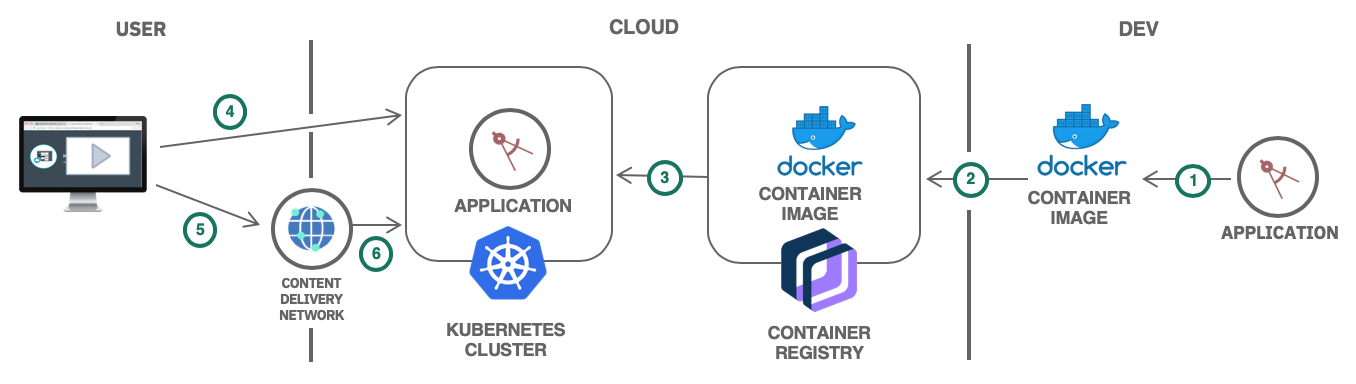
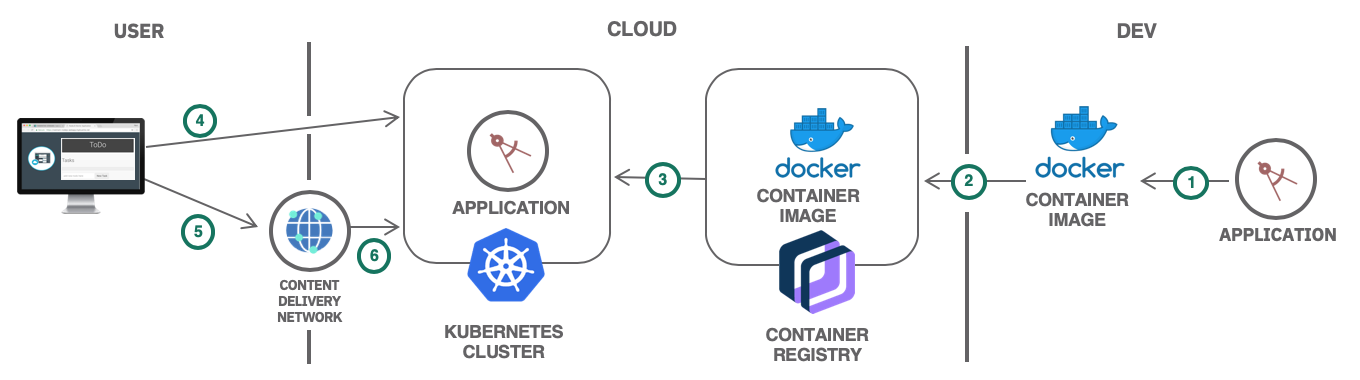
Further updates per Fred, and fix the defects about test object uploading

diff --git a/dynamic-content-cdn.md b/dynamic-content-cdn.md
@@ -16,12 +16,12 @@ lasttested: "2019-09-30"
 # Accelerate a dynamic website using Dynamic Content Acceleration with IBM CDN
 {: #dynamic-cdn}
 
-In a previous tutorial [Accelerate delivery of static files using a CDN](/docs/tutorials?topic=solution-tutorials-static-files-cdn) we have known how to host and serve static assets (images, videos, documents) of a website in a {{site.data.keyword.cos_full_notm}}, and how to use a [{{site.data.keyword.cdn_full}} (CDN)](https://{DomainName}/catalog/infrastructure/cdn-powered-by-akamai) for fast and secure delivery to users around the world.
+In a previous tutorial [Accelerate delivery of static files using a CDN](/docs/tutorials?topic=solution-tutorials-static-files-cdn) we have known how to host and serve static assets (images, videos, and documents) of a website in a {{site.data.keyword.cos_full_notm}}, and how to use a [{{site.data.keyword.cdn_full}} (CDN)](https://{DomainName}/catalog/infrastructure/cdn-powered-by-akamai) for fast and secure delivery to users around the world.
 
-Web applications are composed of not only static content like text, images, cascading style sheets, and JavaScript files but also personalized and dynamicly changing contents that can’t be cached at CDN. A common example of non-cacheable content is adding an item to a cart in a e-commerce website that might be generated from JavaScript on the base page. Before Dynamic Content Acceleation is available, a CDN will pass every request for a non-cacheable object through to the owner’s origin server, and pass the result back to the user.
+Web applications are composed of not only static content like text, images, cascading style sheets, and JavaScript files but also personalized and dynamicly changing contents that can’t be cached at CDN. A common example of non-cacheable content is adding an item to a cart in an e-commerce website that might be generated from JavaScript on the base page. Before Dynamic Content Acceleation is available, a CDN will pass every request for a non-cacheable object through to the owner’s origin server, and pass the result back to the user.
 
 To stop these dynamic contents from being a performance bottleneck, you can utilize the new Dynamic Content Acceleration (DCA) capablity of IBM [{{site.data.keyword.cdn_full}} (CDN)](https://{DomainName}/catalog/infrastructure/cdn-powered-by-akamai) to optimze the performance of dynamic contents:
-* the DCA capablity of CDN will choose the optimal routes for requests and responses
+* the DCA capablity of CDN will choose the optimal routes for requests
 * proactively pre-fetch contents from origin servers so that users can access these contents rapidly from the edge
 * extend the duration of TCP connections for multiple requests
 * automatically compress images for lower latency.
@@ -51,9 +51,6 @@ This tutorial may incur costs. Use the [Pricing Calculator](https://{DomainName}
 ![Architecture](images/solution52-cdn-dca/solution_52_architecture.png)
 </p>
 
-![Architecture](images/solution52-cdn-dca/solution_52_architecture.png)
-
-
 1. The developer creates a simple dynamic application and produces a Docker container image.
 2. The image is pushed to a namespace in IBM Cloud Container Registry.
 3. The application is deployed to the Kubernates cluster on IBM Cloud.
@@ -69,22 +66,18 @@ This tutorial may incur costs. Use the [Pricing Calculator](https://{DomainName}
 
 ## Prepare the dynamic web application
 
-
-### Get the web application code
-{: #get_code}
-
 Let's consider a simple dynamic web application for collaboration for a team geographically distributed. With this application, team members can create and manage team to-do items together.
 
-This [sample application](https://github.com/beego/samples) is based on [Beego](https://beego.me/docs/intro/), a RESTful HTTP framework for the rapid development of Go applications including APIs, web apps and backend services. 
+This [sample application](https://github.com/beego/samples) is based on [Beego](https://beego.me/docs/intro/), a RESTful HTTP framework for the rapid development of Go applications including APIs, web apps and backend services.
 
-```
-go get github.com/beego/samples/todo
-```
-{: pre}
+### Optional: Build the application locally
 
-### Build the application locally
-
-1. Makre sure you have set your `$GOPTAH`.
+1. Make sure you have set your `$GOPTAH`.
+2. Get the code. 
+	```
+	go get github.com/beego/samples/todo
+	```
+	{: pre}
 2. From your local to-do application directory, for example, `$GOPATH/src/github.com/beego/samples/todo`, run the application locally:
 	```bash
 	bee run
@@ -92,30 +85,54 @@ go get github.com/beego/samples/todo
 	{: pre}
 2. After the application starts, go to `http://localhost:8080/`.
    ![](images/solution52-cdn-dca/local_todo_application.png)
+   
+### Customize the application to include a test object 
 
-### Make a Docker image from the application
+The Dynamic Content Acceleration (DCA) feature will utilize a test object on your origin server to determine the optimal routes for real requests. For this purpose, we will customize the application to include this test object. 
 
-1. clone the application code from GitHub to local.
+1. Clone the application code from GitHub to local.
    ```bash
    cd $GOPATH/src/github.com/beego
    git clone git@github.com:beego/samples.git
 	```
 	{: pre}
- 
-1. From the local to-do application directory, for example, `$GOPATH/src/github.com/beego/samples/todo`, prepare a dockerfile. An example can be download from [this GitHub repository](https://github.com/ying-tang/solution_tutorial).
-2. In the same directory, prepare a GO dependency file Gopkg.toml. An example can be download from [this GitHub repository](https://github.com/ying-tang/solution_tutorial).
-3. Build a Docker image (*mytodo*) from these files, and tag it, for example, with *cdn*.
+2. Download the test object from [this directory](https://github.com/ying-tang/solution_tutorial/blob/master/detection-test-object.html) or prepare a simple HTML file in about 10KB size.
+3. Edit your `main.go` file in the to-do application directy. We will add an addtional router.
+   ```bash
+   beego.Router("/test-dca/", &controllers.TaskController{}, "get:TestDca")
+	```
+	{: pre}
+4. Edit your `controller/task.go`file and add another function to make the test object accessible:
+	```bash
+	func (this *TaskController) TestDca() {
+	       this.TplName = "detection-test-object.html"
+	       this.Render()
+	}
+	{: pre}
+
+
+### Make a Docker image from the application
+
+1. Prepare a dockerfile. An example can be download from [this GitHub repository](https://github.com/ying-tang/solution_tutorial).
+2. Prepare a GO dependency file Gopkg.toml. An example can be download from [this GitHub repository](https://github.com/ying-tang/solution_tutorial).
+3. Build a Docker image (*mytodo*) from the application directy where the dockerfile and `Gopkg.toml` are stored, and tag the image, for example, with *cdn*.
 	```bash
 	docker build -t mytodo:cdn .
 	```
 	{: pre}
+5. Run the application inside the container. 
+   	```bash
+	docker run -d -p 8080:8080 mytodo:cdn
+	```
+	{: pre} 
+6. Verify that you can access the application and the test object: `http://localhost:8080/test-dca`.
    
 ## Create a Kubernates cluster
 
-1. Create a Kubernetes cluster from the [{{site.data.keyword.Bluemix}} catalog](https://{DomainName}/kubernetes/catalog/cluster/create). For simplicity of the tutorial, a FREE cluster is used.
+1. Create a Kubernetes cluster from the [{{site.data.keyword.Bluemix}} catalog](https://{DomainName}/kubernetes/catalog/cluster/create). A standard cluster is used in this tutorial. 
 2. When the cluster is ready, follow the steps described in the **Access** tab of your cluster to gain access to `kubectl`, a command line tool that you use to interact with a Kubernetes cluster. 
 3. Use `ibmcloud login` to log in interactively, and set the KUBECONFIG environment variable as directed.  
-
+4. Kubernates nodePorts contridicts with IBM CDN allowed port range. So we have to make a change to the nodeport
 For more information about setting the Kubernates cluster and the command line, see [IBM Cloud Kubernetes Service](https://{DomainName}/docs/containers?topic=containers-container_index#container_index).
 
 ## Save the Docker image into the IBM Cloud Container Registry
@@ -141,7 +158,7 @@ For more information about setting the Kubernates cluster and the command line, 
 ## Deploy the image to the Kubernates cluster
 
 1. Create a deployment configuration file, for example, `mydeployment.yaml`. For more information about how to prepare this file, see [Building containers from images](https://{DomainName}/docs/containers?topic=containers-images).
-2. Before pulling an image from a registry, IBM Cloud Kubernetes Service cluster requires a special type of Kubernetes secret, an `imagePullSecret`. You must prepare a secret YAML and add it to the same namespace of the deployment YAML. The secret YAML may look likt the following:
+2. Before pulling an image from a registry, IBM Cloud Kubernetes Service cluster requires a special type of Kubernetes secret, an `imagePullSecret`. You must prepare a secret YAML and add it to the same namespace of the deployment YAML. The secret YAML may look like the following:
 	```
    apiVersion: v1
 	kind: Secret
@@ -164,22 +181,21 @@ For more information about setting the Kubernates cluster and the command line, 
 	kubectl apply -f mydeployment.yaml
 	```
 	{:pre}	
-5. You will be able to see this application running on `https://<worker_node_IP>:<port>`.
-6. Optionaly, if you would like to use a custom domain for your application, [set up ingress](https://{DomainName}/docs/containers?topic=containers-ingress#ingress). 
+   Now you are able to see this application running on `https://<worker_node_IP>:<port>`.
+5. Specify ingress resource with a YAML file to set an IBM-provided ingress domain for your application. See more information in [set up ingress](https://{DomainName}/docs/containers?topic=containers-ingress#ingress). 
 
 ## Create a CDN instance
 
-1. Go to the catalog in the console, and select [**Content Delivery Network**](https://{DomainName}/catalog/infrastructure/cdn-powered-by-akamai) from the Network section. This CDN is powered by Akamai. Click **Create**.
-2. On the next dialog, set the **Hostname** for CDN to your custom domain. If you have set up ingress with your Kubernates cluster, you can specify the  customer domain of the Kubernates application as CDN Hostname. In this example, we will access the CDN contents through the IBM CDN provided CNAME, so the field can be an arbitary name.
-3. Set the rest of CDN configurations:
-	* Set the **Custom CNAME** prefix to a unique value.
+1. Before you create CDN instance, apply for a domain name for your application. 
+2. Go to the catalog in the console, and select [**Content Delivery Network**](https://{DomainName}/catalog/infrastructure/cdn-powered-by-akamai) from the Network section. This CDN is powered by Akamai. Click **Create**.
+3. On the next dialog, set the **Hostname** for CDN to your custom domain. 
+4. Set the rest of CDN configurations:
+	* Set the **Custom CNAME** prefix to a unique value. With your DNS service provider, configure the CDN CNAME to point to your custom domain.
 	* Leave **Host header** and **Path** empty. 
-	* Use the default **Server** option. Type the worker node public IP address as **Origin serer address**.
-	* Check HTTPS only. 
-	* Find the TCP **nodePort** from the internal endpoints of your Kubernates service, and specify it as the **HTTPS port**.
-	* For **SSL certificate** select the **Wildcard Certificate** option.
-4. Accept the **Master Service Agreement** and click **Create**.
-5. Configure the CDN CNAME with your DNS provider.
+	* Use the default **Server** option. Specify the Kubernates ingress domain as **Origin serer address**, for example, `cdncluster.us-south.containers.appdomain.cloud`.
+	* Check HTTP only and enable the HTTP 80 port.
+5. Accept the **Master Service Agreement** and click **Create**.
+
 
 After you can sucessfully created the CDN mapping, to view your CDN instance, select the CDN instance [in the list](https://{DomainName}/classic/network/cdn). The **Details** panel shows both the **Hostname** and the **CNAME** for your CDN.
 
@@ -187,9 +203,8 @@ After you can sucessfully created the CDN mapping, to view your CDN instance, se
 
 1. Click the origin from the [CDN Overview](https://{DomainName}/classic/network/cdn), and navigate to the **Settings** tab of your origin.
 2. Under the **Optimized for** section, select **Dynamic Content Acceleration** from the drop-down list.
-3. Download the test object from the **Detection path** section, and upload it to your Kubernates Pod. In this example, we assume the whole website is dynamic and needs to be enabled for DCA. 
-4. Specify the root path `/` as the detection path, and click **Test** to verify the path is set correctly. This detection path will be used periodically by IBM CDN to determine the fastest path to the origin. 
-5. Make sure Prefetching and Image compression are both set to **On**.
+3. Under the **Detection path** section, specify the path `/test-dca/detection-test-object.html` as the detection path, and click **Test** to verify the path is set correctly. This detection path will be used periodically by IBM CDN to determine the fastest path to the origin. 
+4. Make sure Prefetching and Image compression are both set to **On**.
    ![](images/solution52-cdn-dca/detection_path.png)
 5. Click **Save**. You have successfully accelerated your todo application deployed in IBM Cloud Kubernates cluster with IBM CDN DCA.
 

diff --git a/index.md b/index.md
@@ -1,7 +1,7 @@
 ---
 copyright:
   years: 2017, 2018
-lastupdated: "2019-09-23"
+lastupdated: "2019-09-26"
 ---
 
 {:shortdesc: .shortdesc}
